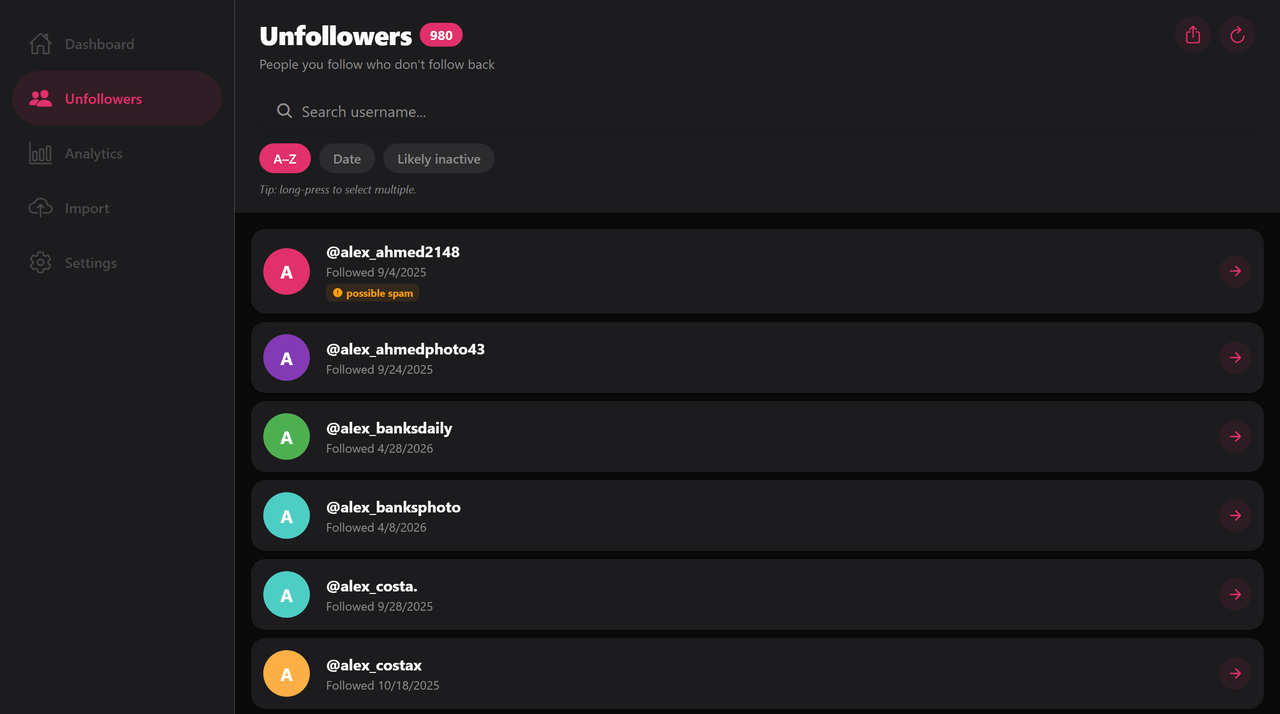
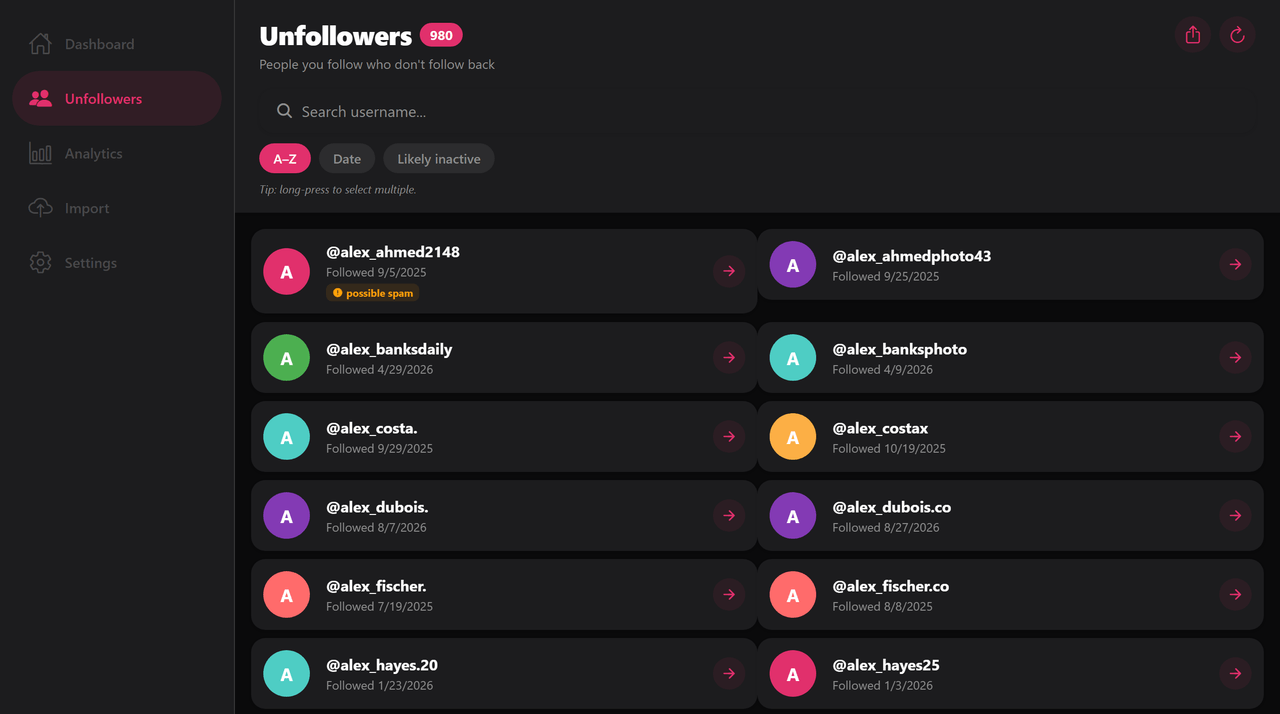
feat(web): two-column lists on desktop
A single username stretched across a ~1000px row was mostly empty space. The
people lists now render in two columns at the desktop breakpoint. Native is
untouched: useIsDesktop is web-only, so numColumns stays 1 there.

This was deliberately skipped when the desktop shell landed, because
useDragSelect derives a row index from finger-Y alone and that is only correct
for a single column — turning on numColumns without addressing it would have
silently broken multi-select on the two screens that use it. It is now gated
off in the two-column layout, which is the honest resolution: drag-select is a
touch affordance, and long-press-to-select still works on desktop through
useMultiSelect. The constraint is recorded in CLAUDE.md so a future
multi-column change on native does not walk into it.

Web screenshots regenerated to match.

diff --git a/src/features/unfollowers/screens/UnfollowersScreen.tsx b/src/features/unfollowers/screens/UnfollowersScreen.tsx
@@ -39,6 +39,7 @@ import RecentSearches from '../../../shared/components/RecentSearches';
 import SortPill from '../../../shared/components/SortPill';
 import { useRecentSearches } from '../../../shared/hooks/useRecentSearches';
 import { haptic } from '../../../shared/utils/haptics';
+import { useIsDesktop } from '../../../shared/hooks/useIsDesktop';
 import { useMultiSelect } from '../../../shared/hooks/useMultiSelect';
 import { useDragSelect } from '../../../shared/hooks/useDragSelect';
 import { useExportUsers } from '../../../shared/hooks/useExportUsers';
@@ -209,6 +210,11 @@ export default function UnfollowersScreen() {
   const insets = useSafeAreaInsets();
   const { colors, isDark } = useTheme();
   const styles = useMemo(() => makeStyles(colors), [colors]);
+  const isDesktop = useIsDesktop();
+  // Two columns on a desktop window: a single username stretched across
+  // ~1000px is mostly empty space. One column everywhere else, so native is
+  // untouched (useIsDesktop is web-only).
+  const listColumns = isDesktop ? 2 : 1;
   const statusBarStyle = isDark ? 'light' : 'dark';
 
   const goToImport = () => navigation.navigate('Tabs', { screen: 'Import' });
@@ -334,7 +340,10 @@ export default function UnfollowersScreen() {
 
   // Gallery-style drag-to-multi-select (C15d). PanResponder-based, no new deps.
   const drag = useDragSelect({
-    isActive: multi.isActive,
+    // Off in the two-column desktop layout: useDragSelect derives a row index
+    // from finger-Y alone, which is only correct for a single column. It is a
+    // touch affordance anyway — desktop users select by clicking rows.
+    isActive: multi.isActive && !isDesktop,
     selected: multi.selected,
     selectMany: multi.selectMany,
     data: sortedList,
@@ -644,6 +653,7 @@ export default function UnfollowersScreen() {
         {...drag.panHandlers}
       >
       <FlashList
+        numColumns={listColumns}
         ref={drag.listRef}
         onScroll={drag.onScroll}
         scrollEventThrottle={16}

diff --git a/src/features/users/UsersListScreen.tsx b/src/features/users/UsersListScreen.tsx
@@ -45,6 +45,7 @@ import { useDragSelect } from '../../shared/hooks/useDragSelect';
 import { useDialog } from '../../shared/context/DialogContext';
 import { useExportUsers } from '../../shared/hooks/useExportUsers';
 import { haptic } from '../../shared/utils/haptics';
+import { useIsDesktop } from '../../shared/hooks/useIsDesktop';
 
 export type UsersListKind = 'followers' | 'following' | 'mutual';
 
@@ -239,6 +240,11 @@ export default function UsersListScreen({ navigation }: any) {
   const insets = useSafeAreaInsets();
   const { colors, isDark } = useTheme();
   const styles = useMemo(() => makeStyles(colors), [colors]);
+  const isDesktop = useIsDesktop();
+  // Two columns on a desktop window: a single username stretched across
+  // ~1000px is mostly empty space. One column everywhere else, so native is
+  // untouched (useIsDesktop is web-only).
+  const listColumns = isDesktop ? 2 : 1;
 
   const heroGradient = isDark ? DarkGradients.primary : Gradients.primary;
   const multi = useMultiSelect<string>();
@@ -305,7 +311,10 @@ export default function UsersListScreen({ navigation }: any) {
 
   // Gallery-style drag-to-multi-select (C15d). PanResponder-based, no new deps.
   const drag = useDragSelect({
-    isActive: multi.isActive,
+    // Off in the two-column desktop layout: useDragSelect derives a row index
+    // from finger-Y alone, which is only correct for a single column. It is a
+    // touch affordance anyway — desktop users select by clicking rows.
+    isActive: multi.isActive && !isDesktop,
     selected: multi.selected,
     selectMany: multi.selectMany,
     data: sorted,
@@ -599,6 +608,7 @@ export default function UsersListScreen({ navigation }: any) {
             {...drag.panHandlers}
           >
           <FlashList
+          numColumns={listColumns}
             ref={drag.listRef}
             onScroll={drag.onScroll}
             scrollEventThrottle={16}

diff --git a/src/features/fans/screens/FansScreen.tsx b/src/features/fans/screens/FansScreen.tsx
@@ -16,6 +16,7 @@ import { useRoute } from '@react-navigation/native';
 import { useAppStore } from '../../../shared/store/appStore';
 import { openInstagramProfile } from '../../../services/openInstagramProfile';
 import { isLikelyBot } from '../../../shared/utils/botHeuristic';
+import { useIsDesktop } from '../../../shared/hooks/useIsDesktop';
 import { ghostScore, GhostBand } from '../../../shared/utils/ghostScore';
 import { InstagramUser } from '../../../shared/types';
 import {
@@ -118,6 +119,11 @@ export default function FansScreen({ navigation }: any) {
   const insets = useSafeAreaInsets();
   const { colors, isDark } = useTheme();
   const styles = useMemo(() => makeStyles(colors), [colors]);
+  const isDesktop = useIsDesktop();
+  // Two columns on a desktop window: a single username stretched across
+  // ~1000px is mostly empty space. One column everywhere else, so native is
+  // untouched (useIsDesktop is web-only).
+  const listColumns = isDesktop ? 2 : 1;
 
   const heroGradient = isDark ? DarkGradients.primary : Gradients.primary;
 
@@ -268,6 +274,7 @@ export default function FansScreen({ navigation }: any) {
           </View>
         ) : (
         <FlashList
+          numColumns={listColumns}
           data={sortedList}
           keyExtractor={(item, idx) => `${item.username}-${idx}`}
           renderItem={({ item, index }) => {

diff --git a/README.md b/README.md
@@ -141,7 +141,7 @@ the key is kept in the browser for convenience.
 The guarantees are honestly not identical, and it is worth being precise about what the no-passphrase version
 buys you. Your data stops being readable text in browser storage, and no page can read the key out — so a script that got into the origin cannot steal the key itself. But the key is kept in the same browser profile as the data, so this is **not** protection against someone who has your computer, or a copy of that profile. Android's key sits in a hardware-backed keystore and is paired with an app lock; web has neither. The in-app dialog says exactly this before you turn it on.
 
-Web also gains something the phone has no room for: at 900px and wider the bottom tab bar becomes a **sidebar** and the dashboard grid goes three across. The breakpoint is web-only by design — an Android tablet keeps the phone layout it was built and device-tested for.
+Web also gains something the phone has no room for: at 900px and wider the bottom tab bar becomes a **sidebar**, the dashboard grid goes three across, and the people lists render in two columns. The breakpoint is web-only by design — an Android tablet keeps the phone layout it was built and device-tested for.
 
 ## Development
 
